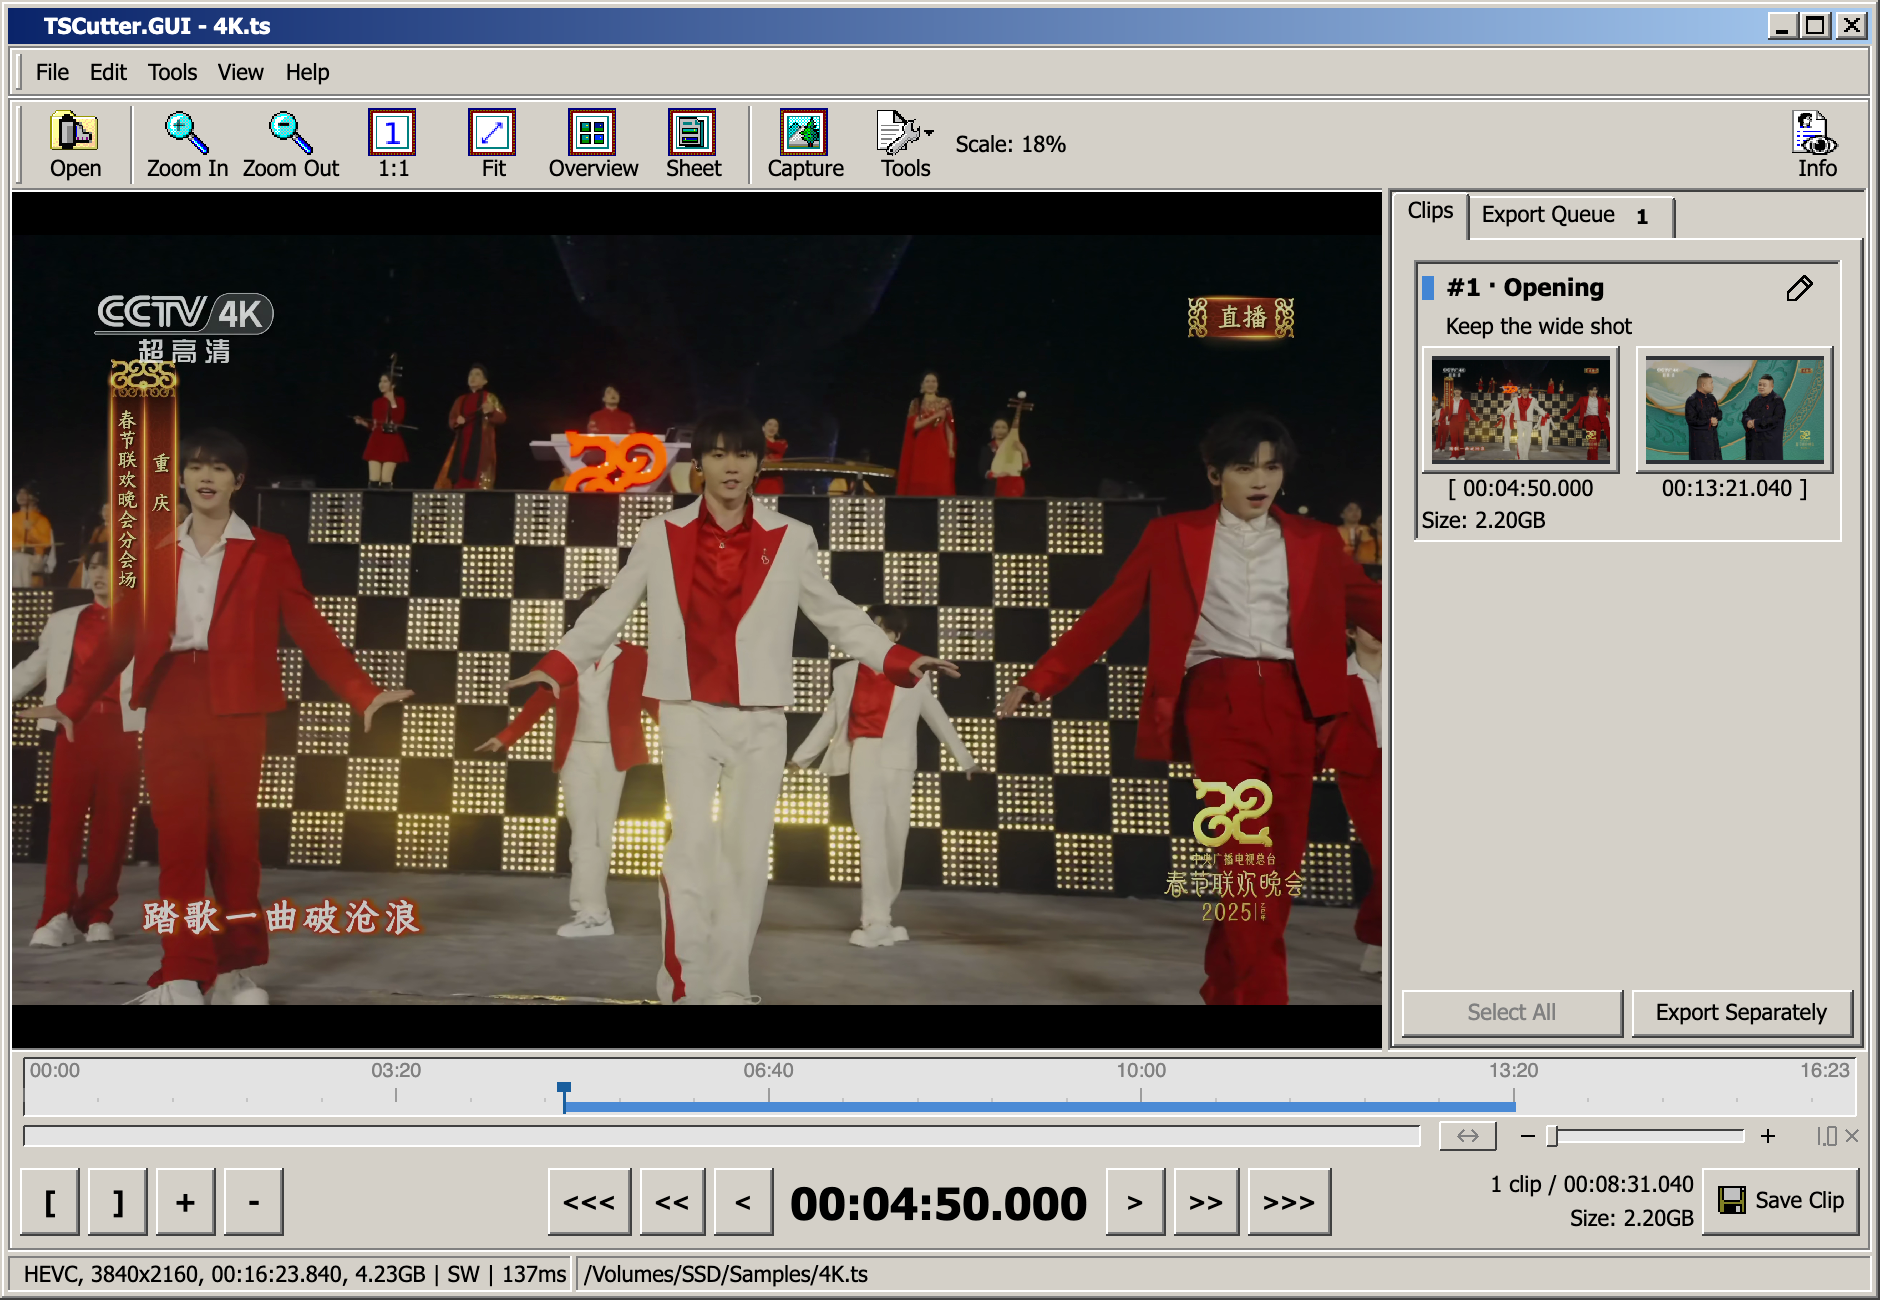
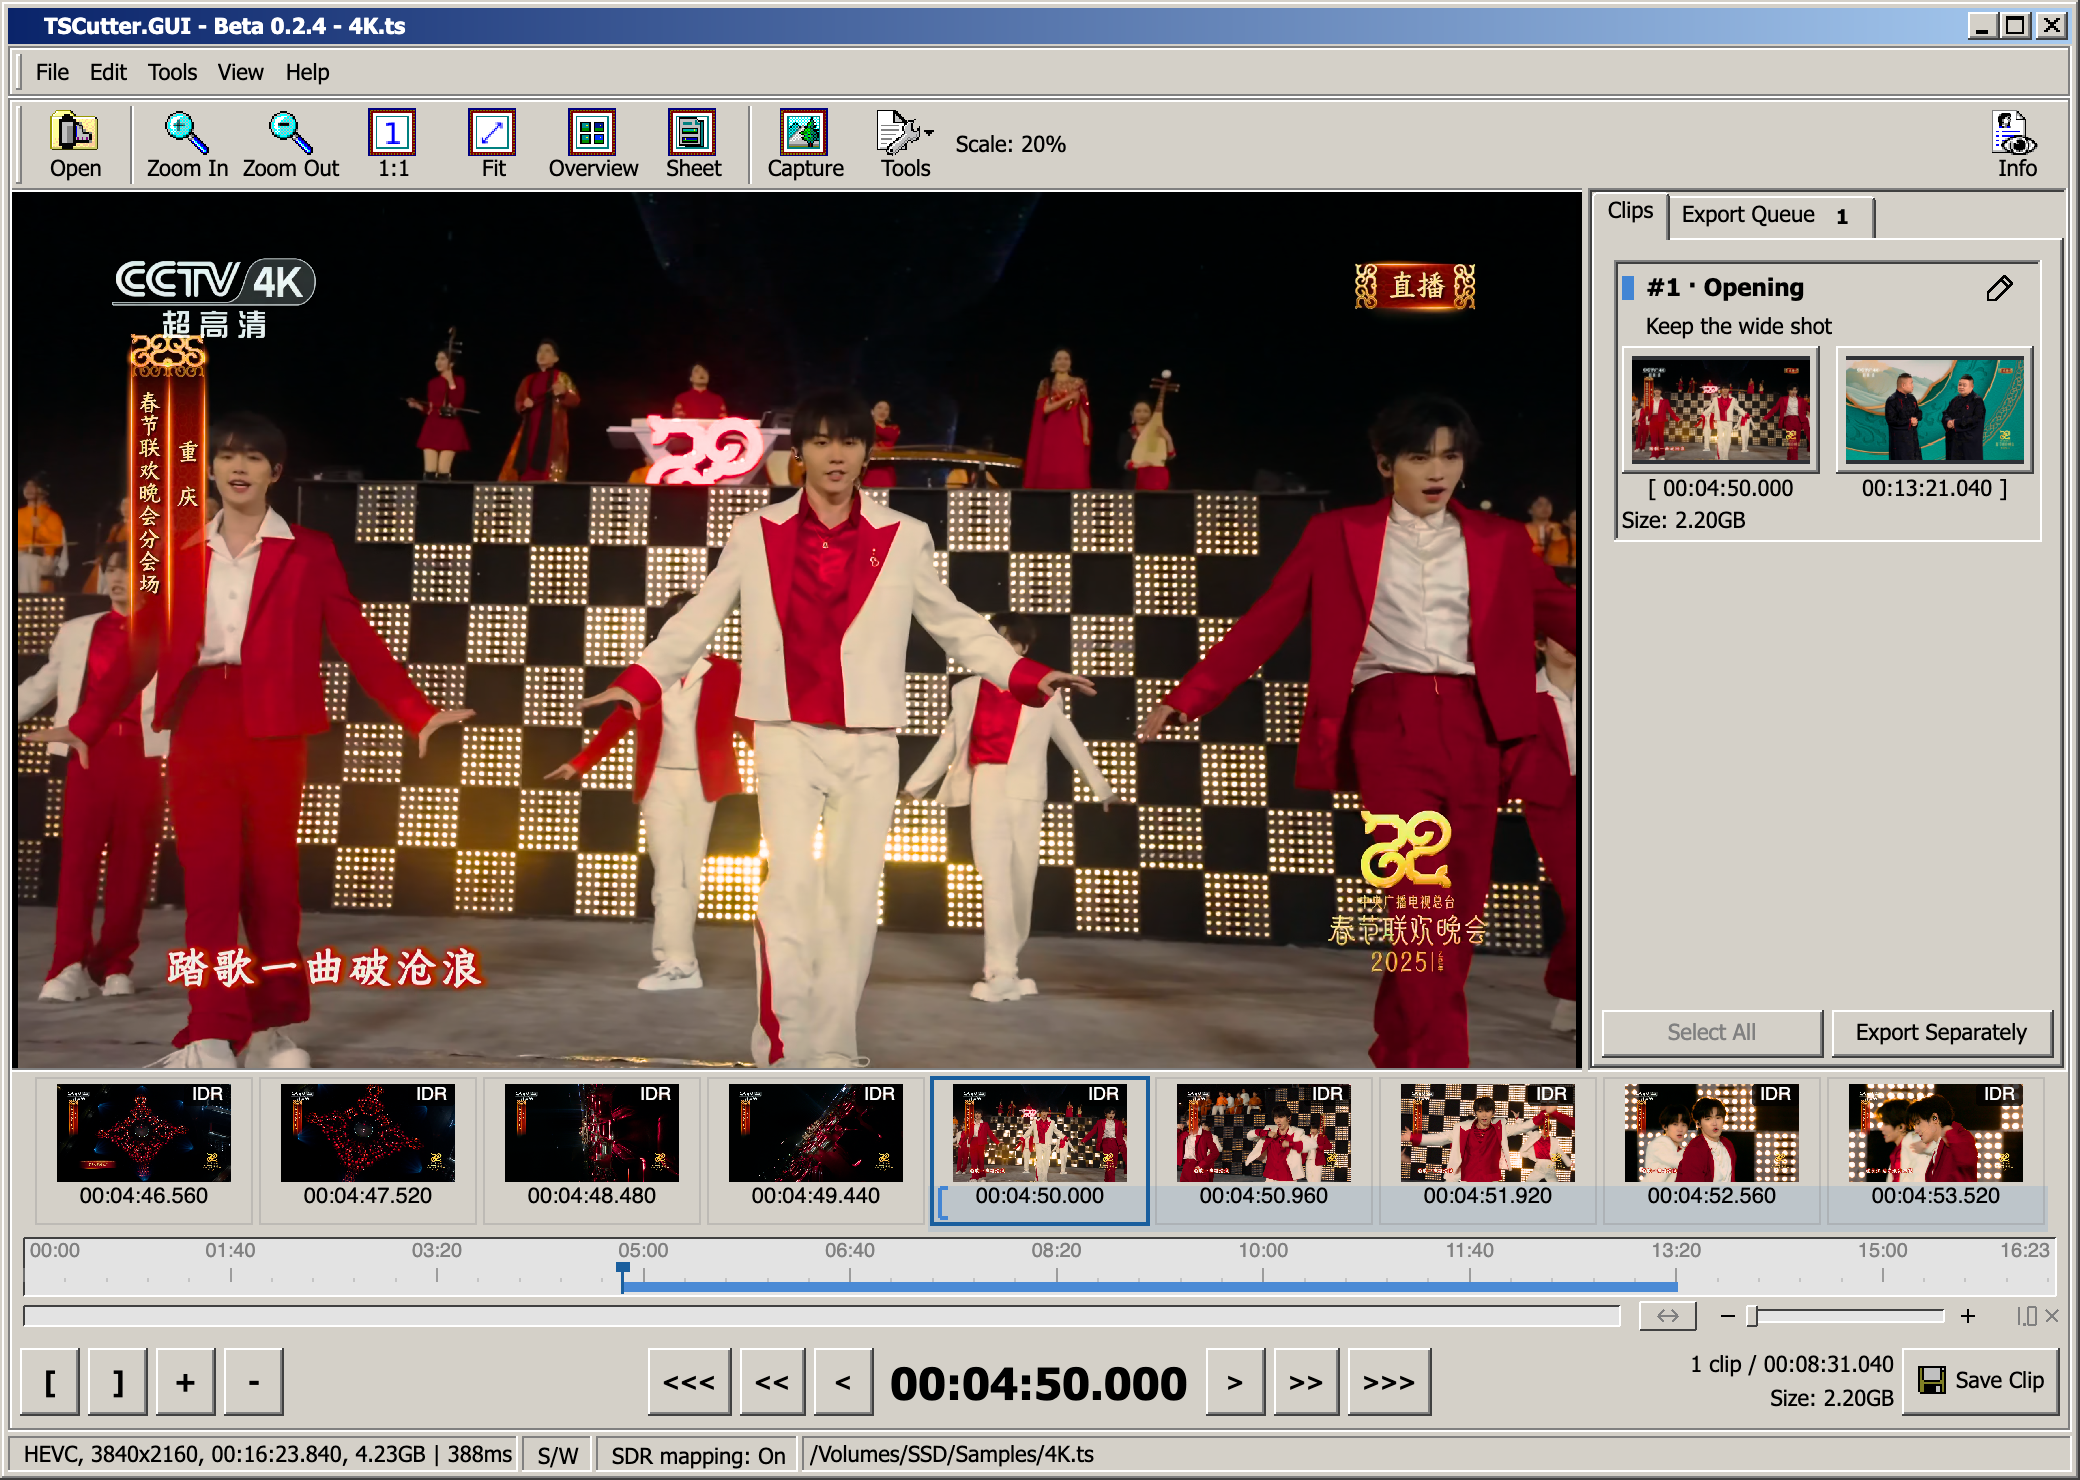
feat: indicate retained keyframes in the preview strip

diff --git a/src/TSCutter.GUI/Controls/KeyFrameStripControl.cs b/src/TSCutter.GUI/Controls/KeyFrameStripControl.cs
@@ -6,6 +6,7 @@ using Avalonia;
 using Avalonia.Controls;
 using Avalonia.Input;
 using Avalonia.Media;
+using TSCutter.GUI.Models.Editing;
 using TSCutter.GUI.Utils;
 using TSCutter.GUI.ViewModels.Preview;
 
@@ -22,16 +23,22 @@ public sealed class KeyFrameStripControl : Control
         AvaloniaProperty.Register<KeyFrameStripControl, IBrush?>(nameof(AccentBrush));
     public static readonly StyledProperty<IBrush?> BorderBrushProperty =
         AvaloniaProperty.Register<KeyFrameStripControl, IBrush?>(nameof(BorderBrush));
+    public static readonly StyledProperty<IReadOnlyList<KeyFrameRetentionRange>?> RangesProperty =
+        AvaloniaProperty.Register<KeyFrameStripControl, IReadOnlyList<KeyFrameRetentionRange>?>(nameof(Ranges));
+    public static readonly StyledProperty<IBrush?> ClipBrushProperty =
+        AvaloniaProperty.Register<KeyFrameStripControl, IBrush?>(nameof(ClipBrush));
 
     public IReadOnlyList<KeyFrameStripItem>? Items { get => GetValue(ItemsProperty); set => SetValue(ItemsProperty, value); }
     public IBrush? TextBrush { get => GetValue(TextBrushProperty); set => SetValue(TextBrushProperty, value); }
     public IBrush? AccentBrush { get => GetValue(AccentBrushProperty); set => SetValue(AccentBrushProperty, value); }
     public IBrush? BorderBrush { get => GetValue(BorderBrushProperty); set => SetValue(BorderBrushProperty, value); }
+    public IReadOnlyList<KeyFrameRetentionRange>? Ranges { get => GetValue(RangesProperty); set => SetValue(RangesProperty, value); }
+    public IBrush? ClipBrush { get => GetValue(ClipBrushProperty); set => SetValue(ClipBrushProperty, value); }
     public event EventHandler<KeyFrameStripItem>? SeekRequested;
     private static readonly IBrush TypeBadgeBrush = new SolidColorBrush(Color.FromArgb(190, 0, 0, 0)).ToImmutable();
 
     static KeyFrameStripControl() => AffectsRender<KeyFrameStripControl>(ItemsProperty,
-        TextBrushProperty, AccentBrushProperty, BorderBrushProperty);
+        TextBrushProperty, AccentBrushProperty, BorderBrushProperty, RangesProperty, ClipBrushProperty);
 
     public KeyFrameStripControl()
     {
@@ -59,7 +66,8 @@ public sealed class KeyFrameStripControl : Control
     public override void Render(DrawingContext context)
     {
         base.Render(context);
-        foreach (var (item, bounds) in GetTiles())
+        var tiles = GetTiles();
+        foreach (var (item, bounds) in tiles)
         {
             var imageArea = new Rect(bounds.X + 3, bounds.Y + 3, bounds.Width - 6, bounds.Height - 24);
             var badgeArea = imageArea;
@@ -84,13 +92,85 @@ public sealed class KeyFrameStripControl : Control
                     context.DrawText(label, new Point(badge.X + 4, badge.Y + 1));
                 }
             }
-            context.DrawRectangle(null, new Pen(item.IsCurrent ? AccentBrush ?? Brushes.DodgerBlue
-                : BorderBrush ?? Brushes.Gray, item.IsCurrent ? 2 : 1), bounds);
+            var retentionBrush = GetRetentionBrush(item, out var retained);
+            if (retained && retentionBrush is not null)
+            {
+                using var opacity = context.PushOpacity(0.16);
+                context.FillRectangle(retentionBrush,
+                    new Rect(bounds.X - 2, imageArea.Bottom + 2, bounds.Width + 4,
+                        Bounds.Height - imageArea.Bottom - 2));
+            }
+            using (context.PushOpacity(item.IsCurrent ? 1 : 0.28))
+                context.DrawRectangle(null, new Pen(item.IsCurrent ? AccentBrush ?? Brushes.DodgerBlue
+                    : BorderBrush ?? Brushes.Gray, item.IsCurrent ? 2 : 1), bounds);
             var text = new FormattedText(item.IsPlaceholder ? "…" : CommonUtil.FormatSeconds(item.Timestamp.TotalSeconds),
                 CultureInfo.CurrentCulture, FlowDirection.LeftToRight, new Typeface("Inter"), 11,
                 TextBrush ?? Brushes.Gray);
             context.DrawText(text, new Point(bounds.Center.X - text.Width / 2, bounds.Bottom - 19));
         }
+        foreach (var (bounds, isStart, brush) in GetBoundaryMarkers(tiles))
+        {
+            var pen = new Pen(brush, 2);
+            var x = isStart ? bounds.Left : bounds.Right;
+            context.DrawLine(pen, new Point(x, bounds.Top), new Point(x, bounds.Bottom));
+            context.DrawLine(pen, bounds.TopLeft, bounds.TopRight);
+            context.DrawLine(pen, bounds.BottomLeft, bounds.BottomRight);
+        }
+    }
+
+    internal IReadOnlyList<(Rect Bounds, bool IsStart, IBrush Brush)> GetBoundaryMarkers(
+        IReadOnlyList<(KeyFrameStripItem Item, Rect Bounds)> tiles)
+    {
+        var markers = new List<(Rect Bounds, bool IsStart, IBrush Brush)>();
+        foreach (var range in (Ranges ?? []).OrderBy(range => range.IsActive))
+        {
+            if (range.End < range.Start || range.End == range.Start && !range.IncludesEnd)
+                continue;
+            var brush = string.IsNullOrEmpty(range.Color) ? ClipBrush ?? Brushes.Green : ClipLabels.Brush(range.Color);
+            for (var index = 0; index < tiles.Count; index++)
+            {
+                var (item, bounds) = tiles[index];
+                if (MatchesBoundary(item, range.StartPts, range.Start))
+                    markers.Add((new Rect(bounds.Left + 4, bounds.Bottom - 18, 4, 15), true, brush));
+                if (!MatchesBoundary(item, range.EndPts, range.End))
+                    continue;
+                var atLeft = !range.IncludesEnd;
+                // 重封装终点帧被排除；前一帧已知时，将右括号放在最后保留帧上。
+                if (atLeft && index > 0 && !tiles[index - 1].Item.IsPlaceholder &&
+                    range.Contains(tiles[index - 1].Item.Pts, tiles[index - 1].Item.Timestamp.TotalSeconds))
+                {
+                    bounds = tiles[index - 1].Bounds;
+                    atLeft = false;
+                }
+                // 终点恰在可见区左侧时，标记留在卡片内，避免被控件边缘裁掉。
+                var x = atLeft ? bounds.Left : bounds.Right - 8;
+                markers.Add((new Rect(x, bounds.Bottom - 18, 4, 15), false, brush));
+            }
+        }
+        return markers;
+    }
+
+    private static bool MatchesBoundary(KeyFrameStripItem item, long? pts, double time) =>
+        !item.IsPlaceholder && (pts is { } exact ? item.Pts == exact : item.Timestamp.TotalSeconds == time);
+
+    internal IBrush? GetRetentionBrush(KeyFrameStripItem item) => GetRetentionBrush(item, out _);
+
+    private IBrush? GetRetentionBrush(KeyFrameStripItem item, out bool retained)
+    {
+        retained = false;
+        if (item.IsPlaceholder)
+            return null;
+        KeyFrameRetentionRange? matching = null;
+        foreach (var range in Ranges ?? [])
+        {
+            if (range.Contains(item.Pts, item.Timestamp.TotalSeconds) &&
+                (matching is null || range.IsActive || !matching.Value.IsActive))
+                matching = range;
+        }
+        if (matching is not { } clip)
+            return BorderBrush ?? Brushes.Gray;
+        retained = true;
+        return string.IsNullOrEmpty(clip.Color) ? ClipBrush ?? Brushes.Green : ClipLabels.Brush(clip.Color);
     }
 
     protected override void OnPointerPressed(PointerPressedEventArgs e)

diff --git a/src/TSCutter.GUI.Tests/UI/KeyFrameStripTests.cs b/src/TSCutter.GUI.Tests/UI/KeyFrameStripTests.cs
@@ -1,6 +1,7 @@
 using Avalonia;
 using Avalonia.Controls;
 using Avalonia.Headless;
+using Avalonia.Media;
 using Avalonia.Media.Imaging;
 using Avalonia.Platform;
 using Avalonia.Threading;
@@ -15,6 +16,7 @@ using HanumanInstitute.MvvmDialogs.Avalonia;
 using Splat;
 using System.Reflection;
 using TSCutter.GUI.Models.Application;
+using TSCutter.GUI.Models.Editing;
 using TSCutter.GUI.Services.Application;
 using TSCutter.GUI.ViewModels.Application;
 using TSCutter.GUI.ViewModels.Editing;
@@ -26,6 +28,59 @@ namespace TSCutter.GUI.Tests.UI;
 [Collection("Avalonia UI")]
 public sealed class KeyFrameStripTests
 {
+    [Fact]
+    public async Task RetentionIndicatorsRespectExactBoundariesOverlapsAndUnknownFrames()
+    {
+        using var session = HeadlessUnitTestSession.StartNew(typeof(ThemeTestAppBuilder));
+        await session.Dispatch(() =>
+        {
+            var strip = new KeyFrameStripControl { BorderBrush = Brushes.Gray, ClipBrush = Brushes.Green };
+            var range = new KeyFrameRetentionRange(1, 3, 180_000, 360_000, true, false, "blue");
+            // 用非零 PTS 起点和略有舍入偏差的时间，确认判断依据是原始 PTS。
+            var first = new KeyFrameStripItem(180_000, TimeSpan.FromSeconds(0.9999999), null, false);
+            var last = new KeyFrameStripItem(360_000, TimeSpan.FromSeconds(2.9999999), null, false);
+            strip.Items = [first with { Pts = 179_999 }, first, last, last with { Pts = 360_001 }];
+            strip.Measure(new Size(448, 80));
+            strip.Arrange(new Rect(0, 0, 448, 80));
+            var tiles = strip.GetTiles();
+            foreach (var includesEnd in new[] { true, false })
+            {
+                strip.Ranges = [range with { IncludesEnd = includesEnd }];
+                Assert.Same(ClipLabels.Brush("blue"), strip.GetRetentionBrush(first));
+                Assert.Same(includesEnd ? ClipLabels.Brush("blue") : Brushes.Gray, strip.GetRetentionBrush(last));
+                Assert.Same(Brushes.Gray, strip.GetRetentionBrush(first with { Pts = 179_999 }));
+                Assert.Same(Brushes.Gray, strip.GetRetentionBrush(last with { Pts = 360_001 }));
+                var markers = strip.GetBoundaryMarkers(tiles);
+                Assert.Equal(2, markers.Count);
+                Assert.Equal(tiles[1].Bounds.Left + 4, Assert.Single(markers, marker => marker.IsStart).Bounds.Left);
+                Assert.Equal(tiles[includesEnd ? 2 : 1].Bounds.Right - 4,
+                    Assert.Single(markers, marker => !marker.IsStart).Bounds.Right);
+            }
+            strip.Ranges = [range, range with { IsActive = true, Color = "red" }, range with { Color = "purple" }];
+            Assert.Same(ClipLabels.Brush("red"), strip.GetRetentionBrush(first));
+            strip.Ranges = [range with { End = double.PositiveInfinity, EndPts = null, Color = "" }];
+            Assert.Same(Brushes.Green, strip.GetRetentionBrush(last with { Pts = 900_000, Timestamp = TimeSpan.FromSeconds(9) }));
+            Assert.True(Assert.Single(strip.GetBoundaryMarkers(tiles)).IsStart);
+            strip.Ranges = [range with { StartPts = 1, EndPts = 900_000 }];
+            Assert.Empty(strip.GetBoundaryMarkers(tiles)); // 可见区边缘不是剪辑边界。
+            // 旧项目没有 PTS 时仍按时间判断；未知帧不提前声称被保留或丢弃。
+            strip.Ranges = [range with { StartPts = null, EndPts = null, IncludesEnd = false }];
+            Assert.Same(Brushes.Gray, strip.GetRetentionBrush(first));
+            Assert.Same(ClipLabels.Brush("blue"), strip.GetRetentionBrush(first with { Timestamp = TimeSpan.FromSeconds(1) }));
+            Assert.Same(Brushes.Gray, strip.GetRetentionBrush(last with { Timestamp = TimeSpan.FromSeconds(3) }));
+            Assert.Null(strip.GetRetentionBrush(first with { Pts = long.MinValue }));
+            strip.Ranges = [];
+            Assert.Same(Brushes.Gray, strip.GetRetentionBrush(first));
+            strip.Ranges = [range with { IncludesEnd = false }];
+            strip.Items = [last, last with { Pts = 360_001 }];
+            var edgeTiles = strip.GetTiles();
+            var edgeMarker = Assert.Single(strip.GetBoundaryMarkers(edgeTiles));
+            Assert.False(edgeMarker.IsStart);
+            Assert.True(edgeMarker.Bounds.Left >= edgeTiles[0].Bounds.Left);
+            Assert.True(edgeMarker.Bounds.Right <= edgeTiles[0].Bounds.Right);
+        }, CancellationToken.None);
+    }
+
     [Fact]
     public async Task ContinuousMovementDebouncesAndReleaseRunsImmediately()
     {
@@ -330,6 +385,15 @@ public sealed class KeyFrameStripTests
                     EndTime = endFrame.Timestamp.TotalSeconds, EndPts = endFrame.Pts, EndPosition = 376
                 };
                 vm.Clips.Add(clip);
+                Assert.False(clip.IsSelected);
+                Assert.Single(vm.KeyFrameStripRanges);
+                vm.SelectClip(clip);
+                Assert.True(Assert.Single(strip.Ranges!).IncludesEnd);
+                vm.UpdateClipDetails(clip, "", "", "purple");
+                Assert.Same(ClipLabels.Brush("purple"), strip.GetRetentionBrush(startFrame));
+                Assert.Same(ClipLabels.Brush("purple"), strip.GetRetentionBrush(endFrame));
+                vm.UndoCommand.Execute(null);
+                Assert.Equal("", Assert.Single(strip.Ranges!).Color);
                 var boundaries = (clip.StartTime, clip.StartPts, clip.StartPosition,
                     clip.EndTime, clip.EndPts, clip.EndPosition);
                 try

diff --git a/src/TSCutter.GUI/ViewModels/Editing/MainWindowViewModel.KeyFrameStrip.cs b/src/TSCutter.GUI/ViewModels/Editing/MainWindowViewModel.KeyFrameStrip.cs
@@ -1,3 +1,6 @@
+using System.Collections.Generic;
+using System.Linq;
+using TSCutter.GUI.Models.Editing;
 using TSCutter.GUI.Services.Preview;
 using TSCutter.GUI.ViewModels.Preview;
 
@@ -9,6 +12,17 @@ public partial class MainWindowViewModel
     public KeyFrameStripViewModel KeyFrameStrip { get; } = new();
 
     public bool IsKeyFrameStripVisible => ShowKeyFrameStrip && IsVideoInitialized;
+
+    public IReadOnlyList<KeyFrameRetentionRange> KeyFrameStripRanges => Clips
+        .Select(clip => new KeyFrameRetentionRange(
+            clip.StartTime,
+            clip.EndPosition < 0 ? double.PositiveInfinity : clip.EndTime,
+            clip.StartPts is 0 or long.MinValue ? null : clip.StartPts,
+            clip.EndPosition < 0 || clip.EndPts is 0 or long.MinValue ? null : clip.EndPts,
+            // TS 复制终点已向后解析以包含标记帧；重封装以终点关键帧为排他边界。
+            IncludesEnd: !clip.RequiresRemux,
+            IsActive: ReferenceEquals(clip, SelectedClip), clip.Color))
+        .ToArray();
 
     public bool ShowKeyFrameStrip
     {

diff --git a/src/TSCutter.GUI/Models/Editing/KeyFrameRetentionRange.cs b/src/TSCutter.GUI/Models/Editing/KeyFrameRetentionRange.cs
@@ -1,0 +1,15 @@
+namespace TSCutter.GUI.Models.Editing;
+
+/// <summary>缩略图对应的实际保留区间；有原始 PTS 时优先按 PTS 判断边界。</summary>
+public readonly record struct KeyFrameRetentionRange(
+    double Start, double End, long? StartPts, long? EndPts, bool IncludesEnd, bool IsActive, string Color)
+{
+    public bool Contains(long pts, double time)
+    {
+        if (!double.IsFinite(time) || End < Start)
+            return false;
+        var startComparison = StartPts is { } start ? pts.CompareTo(start) : time.CompareTo(Start);
+        var endComparison = EndPts is { } end ? pts.CompareTo(end) : time.CompareTo(End);
+        return startComparison >= 0 && (IncludesEnd ? endComparison <= 0 : endComparison < 0);
+    }
+}

diff --git a/src/TSCutter.GUI/ViewModels/Editing/MainWindowViewModel.cs b/src/TSCutter.GUI/ViewModels/Editing/MainWindowViewModel.cs
@@ -302,6 +302,7 @@ public partial class MainWindowViewModel : ViewModelBase, IWeakEventSubscriber<P
         OnPropertyChanged(nameof(ClipOutputText));
         OnPropertyChanged(nameof(ClipOutputToolTip));
         OnPropertyChanged(nameof(SelectedClipRanges));
+        OnPropertyChanged(nameof(KeyFrameStripRanges));
         OnPropertyChanged(nameof(SelectedClipEstimatedSizeStr));
         OnPropertyChanged(nameof(SelectedClipsSummaryStr));
         SelectAllClipsCommand.NotifyCanExecuteChanged();
